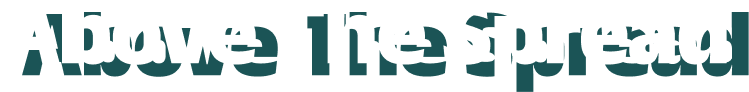
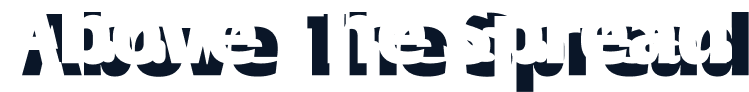
feat:change primary color

Changed region(s): [[0.3992, 0.1304, 1.0, 1.0], [0.0307, 0.1304, 0.3685, 0.8478], [0.6142, 0.1304, 0.6756, 0.3261]]

diff --git a/src/app/(features)/games/_components/datepicker.tsx b/src/app/(features)/games/_components/datepicker.tsx
@@ -132,7 +132,7 @@ export default function Datepicker({
   };
 
   const [currentMonthYear, setCurrentMonthYear] = useState(
-    getMonthYear(selectedDate)
+    getMonthYear(selectedDate),
   );
 
   // Add debouncing to prevent rapid updates
@@ -172,7 +172,7 @@ export default function Datepicker({
       const visibilityRatio =
         Math.min(
           cardRect.width,
-          carouselRect.width - Math.max(0, cardRect.left - carouselRect.left)
+          carouselRect.width - Math.max(0, cardRect.left - carouselRect.left),
         ) / cardRect.width;
 
       if (distance < minDistance && visibilityRatio > 0.5) {
@@ -183,7 +183,7 @@ export default function Datepicker({
 
     if (closestCard) {
       const dateIndex = parseInt(
-        (closestCard as HTMLElement).getAttribute("data-date-index") || "0"
+        (closestCard as HTMLElement).getAttribute("data-date-index") || "0",
       );
       const date = dates[dateIndex];
       if (date) {
@@ -237,7 +237,7 @@ export default function Datepicker({
           if (bestEntry) {
             const target = bestEntry.target as HTMLElement;
             const dateIndex = parseInt(
-              target.getAttribute("data-date-index") || "0"
+              target.getAttribute("data-date-index") || "0",
             );
             const date = dates[dateIndex];
             if (date) {
@@ -256,7 +256,7 @@ export default function Datepicker({
         {
           root: null, // Use viewport as root
           threshold: [0.6, 0.7, 0.8, 0.9, 1.0], // Higher thresholds for more stability
-        }
+        },
       );
 
       // Observe all date cards
@@ -311,7 +311,7 @@ export default function Datepicker({
         {selectedDate.toDateString() !== todayString ? (
           <Button
             onClick={selectToday}
-            className="   h-6 w-12 md:text-base font-bold rounded-xl"
+            className="bg-primary-font   h-6 w-12 md:text-base font-bold rounded-xl"
           >
             <p className="text-xs  scale-95">Today</p>
           </Button>

diff --git a/src/app/(features)/(home)/components/vote.tsx b/src/app/(features)/(home)/components/vote.tsx
@@ -355,9 +355,9 @@ function VotePopupContent({ onClose: _onClose }: { onClose: () => void }) {
 
   if (!data || data.length === 0) {
     return (
-      <div className="flex flex-col items-center justify-center py-12 gap-2 text-muted-foreground text-center px-6">
+      <div className=" flex-col items-center justify-center pt-3 pb-12 gap-2 text-muted-foreground text-center px-6">
         {/* Day tabs still visible even in empty state */}
-        <div className="w-full flex justify-center mb-2">
+        <div className="w-full flex justify-start mb-10">
           <div className="flex gap-1 bg-muted rounded-lg p-1">
             {DAY_TABS.map((tab) => (
               <button
@@ -375,16 +375,22 @@ function VotePopupContent({ onClose: _onClose }: { onClose: () => void }) {
             ))}
           </div>
         </div>
-        <span className="text-4xl">⚽</span>
-        <p className="text-sm font-medium text-foreground">
-          No fixtures scheduled{" "}
-          {selectedDay === "tomorrow" ? "for tomorrow" : "today"}
-        </p>
-        <p className="text-xs">
-          {selectedDay === "tomorrow"
-            ? "Tomorrow's fixtures are pre-loaded at 12:20 UTC"
-            : "No matches available yet — check back later"}
-        </p>
+        <div className="flex flex-col items-center justify-center gap-2">
+          <span className="text-4xl">⚽</span>
+          <p className="text-md font-medium text-foreground">
+            {selectedDay === "tomorrow"
+              ? "No fixtures scheduled for tomorrow"
+              : "No fixtures available today"}
+          </p>
+          <p className="text-sm text-muted-foreground">
+            🕐 All fixture times are displayed in UTC
+          </p>
+          <p className="text-xs">
+            {selectedDay === "tomorrow"
+              ? "Tomorrow's fixtures are pre-loaded at 12:20 UTC"
+              : "All matches have finished or none were scheduled — check back tomorrow"}
+          </p>
+        </div>
       </div>
     );
   }

diff --git a/src/app/(features)/stats/[league-id]/[team-id]/_components/squad.tsx b/src/app/(features)/stats/[league-id]/[team-id]/_components/squad.tsx
@@ -254,13 +254,13 @@ export default function Squad({ teamId, leagueId }: SquadProps) {
                   />
                 </div>
                 <div className="w-full text-center space-y-1.5">
-                  <p className="text-[11px] md:text-xs font-semibold text-foreground truncate group-hover:text-primary transition-colors duration-300">
+                  <p className="text-[11px] md:text-xs font-semibold text-foreground truncate group-hover:text-primary-font transition-colors duration-300">
                     {player.name}
                   </p>
                   <div className="flex items-center justify-center gap-1.5 text-[10px] md:text-[11px] text-muted-foreground">
                     {player.number !== null && (
                       <>
-                        <span className="font-medium bg-gradient-to-br from-muted/80 to-muted/60 px-2 py-0.5 rounded-md border border-border/30 group-hover:bg-primary/20 group-hover:text-primary group-hover:border-primary/30 transition-all duration-300">
+                        <span className="font-medium bg-gradient-to-br from-muted/80 to-muted/60 px-2 py-0.5 rounded-md border border-border/30 group-hover:bg-primary/20 group-hover:text-primary-font group-hover:border-primary/30 transition-all duration-300">
                           #{player.number}
                         </span>
                         <span className="text-muted-foreground/50">•</span>

diff --git a/src/app/globals.css b/src/app/globals.css
@@ -5,11 +5,12 @@
 @layer base {
   :root {
     --mygray: 0 0% 80%;
-    --primary: 184 72% 27%;
-    --primary-title: 184 72% 27%;
-    --primary-font: 184 72% 27%;
+    --primary: 220 51% 18%;
+    --primary-title: 220 51% 18%;
+    --primary-font: 220 51% 18%;
+    --primary-hero: 220 100% 62%;
 
-    --primary-active: 196 75% 22%;
+    --primary-active: 216 60% 10%;
     --bar-green: 172 56% 38% / 0.6;
     --bar-red: 0 51% 61% / 0.6;
     --bar-yellow: 45 77% 59% / 0.6;
@@ -73,7 +74,7 @@
 
     --foreground: 0 0% 93.5%;
     --primary-title: 0 0% 80%;
-    --primary-font: 172 47% 76%;
+    --primary-font: 220 66% 64%;
 
     --vote-blue: 224 78% 58%;
     --vote-red: 0 89% 71% / 0.79;
@@ -287,7 +288,7 @@
 .custom-loader::after {
   content: "";
   grid-area: 1/1;
-  --c: radial-gradient(farthest-side, hsl(168 42% 64%) 92%, transparent);
+  --c: radial-gradient(farthest-side, hsl(220 72% 43%) 92%, transparent);
   background:
     var(--c) 50% 0,
     var(--c) 50% 100%,
@@ -300,7 +301,7 @@
 
 .custom-loader::before {
   margin: 4px;
-  --c: radial-gradient(farthest-side, hsl(var(--primary)) 92%, transparent);
+  --c: radial-gradient(farthest-side, hsl(220 73% 59%) 92%, transparent);
   background-size: 7px 7px;
   animation-timing-function: linear;
 }

diff --git a/src/components/common/notification.tsx b/src/components/common/notification.tsx
@@ -203,7 +203,7 @@ export function NotificationBell({
         >
           <FaBell className="h-5 w-5 text-gray-200 hover:text-primary-active cursor-pointer" />
           {unreadCount > 0 && (
-            <span className="absolute -top-0.5 -right-0.5 flex h-4 min-w-4 items-center justify-center rounded-full bg-red-500 px-1 text-[10px] font-bold text-white ring-2 ring-primary">
+            <span className="absolute -top-0.5 -right-0.5 flex h-4 min-w-4 items-center justify-center rounded-full bg-primary-hero px-1 text-[10px] font-bold text-white ring-2 ring-primary">
               {unreadCount > 99 ? "99+" : unreadCount}
             </span>
           )}

diff --git a/src/components/common/no-data.tsx b/src/components/common/no-data.tsx
@@ -46,7 +46,9 @@ export default function NoData({
     <div
       className={`flex flex-col items-center justify-center gap-3 ${className}`}
     >
-      <div className="text-4xl md:text-5xl text-primary">{renderIcon()}</div>
+      <div className="text-4xl md:text-5xl text-primary-title">
+        {renderIcon()}
+      </div>
       <h2
         className={`text-base md:text-lg font-semibold ${
           date ? "text-foreground" : "text-muted-foreground"

diff --git a/src/app/(features)/games/_components/date.tsx b/src/app/(features)/games/_components/date.tsx
@@ -18,7 +18,7 @@ export default function DateCard({
   return (
     <div
       className={`${
-        isSelected ? "bg-primary text-white hover:bg-primary" : ""
+        isSelected ? "bg-primary-font text-white hover:bg-primary-font" : ""
       } flex flex-col w-12 justify-center items-center mx-1 py-1 hover:bg-icon-hover rounded-xl transition-colors duration-150`}
     >
       <p className="text-xs font-medium">{isToday ? "Today" : day}</p>

diff --git a/src/app/(features)/games/page.tsx b/src/app/(features)/games/page.tsx
@@ -200,7 +200,7 @@ function FixturesContent() {
               checked={hideScores}
               onCheckedChange={setHideScores}
               aria-label={hideScores ? "Show scores" : "Hide scores"}
-              className="data-[state=unchecked]:bg-primary/50"
+              className="data-[state=unchecked]:bg-primary-font/50 data-[state=checked]:bg-primary-font"
             />
           </div>
         </div>

diff --git a/src/components/layout/nav.tsx b/src/components/layout/nav.tsx
@@ -22,7 +22,7 @@ export default function Nav() {
             href={item.href}
             className={`flex items-center gap-2  h-8 px-6 transition-all duration-300 cursor-pointer ${
               isActive
-                ? "bg-primary text-white/80"
+                ? "bg-primary text-white"
                 : "text-mygray hover:bg-neutral-800/30 hover:text-white/80"
             }`}
           >

diff --git a/tailwind.config.ts b/tailwind.config.ts
@@ -43,6 +43,7 @@ export default {
           active: "hsl(var(--primary-active))",
           font: "hsl(var(--primary-font))",
           title: "hsl(var(--primary-title))",
+          hero: "hsl(var(--primary-hero))",
         },
         secondary: {
           DEFAULT: "hsl(var(--secondary))",
